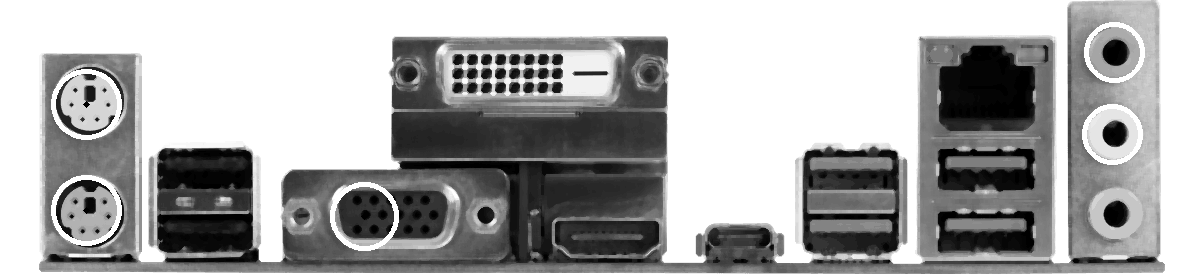
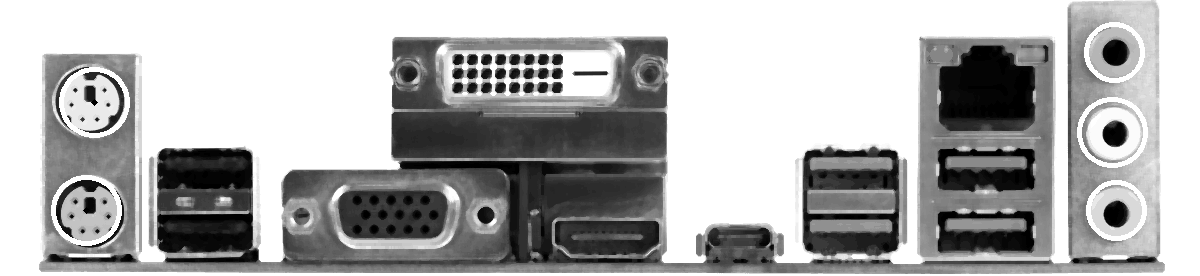
Last version before meshlib

diff --git a/gay_code.py b/gay_code.py
@@ -12,28 +12,47 @@ circle_path = "./CircleDetection/"
 erosion_path = "./CoolErosion/"
 
 def clearLeftRight (input_image):
+	print (input_image.shape)
+	FirstDim = input_image.shape[0]
+	SecDim = input_image.shape[1]
+	top = 0
+	for bot in range (0, FirstDim):
+		if (np.sum(input_image[bot])/SecDim<0.99):
+			break
+	top = FirstDim-1
+	for top in range (FirstDim-1, 0, -1):
+		if (np.sum(input_image[top])/SecDim<0.99):
+			break
+			
+	left = 0
+	for left in range (0, SecDim):
+		if (np.sum(input_image[:,left])/FirstDim<0.9):
+			break
+	right = SecDim-1
+	for right in range (SecDim-1, 0, -1):
+		if (np.sum(input_image[:,right])/FirstDim<0.9):
+			break
+	#cv2.imshow("KeepLeftRight: ", (input_image[left:right, bot:top]*255).astype(np.uint8))
+	#cv2.waitKey(0)
+	print (left," : ",right,", ",bot," : ", top)
+	return ((input_image[bot:top, left:right]))
+
+def clearMotherboard (input_image):
 	FirstDim = input_image.shape[0]
 	SecDim = input_image.shape[1]
 	
 	left = 0
 	for left in range (0, FirstDim):
-		if (np.sum(input_image[left])/SecDim<0.999):
+		if (np.sum(input_image[left])/SecDim<1):
 			break
+		#else:
+			#print (np.sum(input_image[left]))
 	right = FirstDim-1
 	for right in range (FirstDim-1, 0, -1):
-		if (np.sum(input_image[right])/SecDim<0.999):
+		if (np.sum(input_image[right])/SecDim>=0.001):
 			break
-			
-	bot = 0
-	for bot in range (0, SecDim):
-		if (np.sum(input_image[:,bot])/FirstDim<0.999):
-			break
-	top = SecDim-1
-	for top in range (SecDim-1, 0, -1):
-		if (np.sum(input_image[:,top])/FirstDim<0.999):
-			break
-	return ((input_image[left:right, bot:top]))
-	
+	return ((input_image[left:right, :]))
+
 def KeepBiggestBlob (input_mask):
     labels_mask = measure.label(input_mask)                       
     regions = measure.regionprops(labels_mask)
@@ -83,7 +102,7 @@ def edgeFilter (a):
 	gae = 1
 	gay = cv2.filter2D (a, ddepth = -1, kernel = (np.ones ((s, s)).astype(np.int32)))
 	
-def niggaBFS (image, CoNhiPhanTime = 1	, BlurRatio = 0.0075):
+def niggaBFS (image, CoNhiPhanTime = 1	, BlurRatio = 0.0075):#0075
 	N = (image.shape)[0]
 	M = (image.shape)[1]
 	print (M)
@@ -105,8 +124,12 @@ def niggaBFS (image, CoNhiPhanTime = 1	, BlurRatio = 0.0075):
 	visited = visited[y:y+h, x:x+w]
 	visited = clearLeftRight(visited).astype (np.uint8)
 	visited = KeepBiggestBlob(visited).astype (np.uint8)
-	for i in range (0, CoNhiPhanTime):
-		visited = CoNhiPhan (visited, M//100)
+	visited = clearMotherboard(visited).astype (np.uint8)
+	visited = clearLeftRight(visited).astype (np.uint8)
+	visited = KeepBiggestBlob(visited).astype (np.uint8)
+	visited = clearMotherboard(visited).astype (np.uint8)
+	#for i in range (0, CoNhiPhanTime):
+	#	visited = CoNhiPhan (visited, M//100)
 	
 	return ((visited)*255)
 def contrast (image, ye):
@@ -114,7 +137,7 @@ def contrast (image, ye):
     image = np.clip (image, 0, 255).astype (np.uint8)
     return image
 if  __name__ == "__main__":
-    contrast_inc = 1
+    contrast_inc = 1.1
     blur_ratio = 5
     for gay_file in glob.glob (data_path+"*.*"):
         file_name = os.path.basename(gay_file).split(".")[-2]
